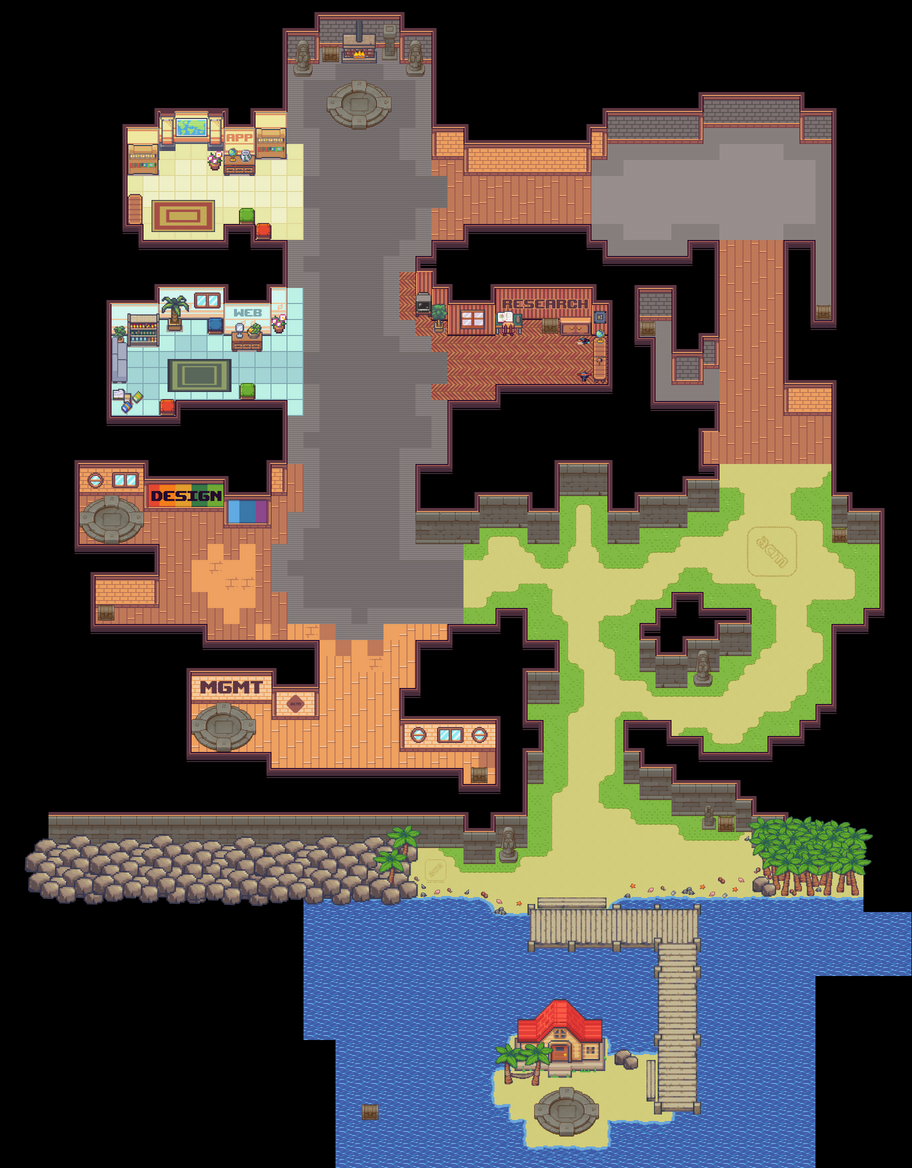
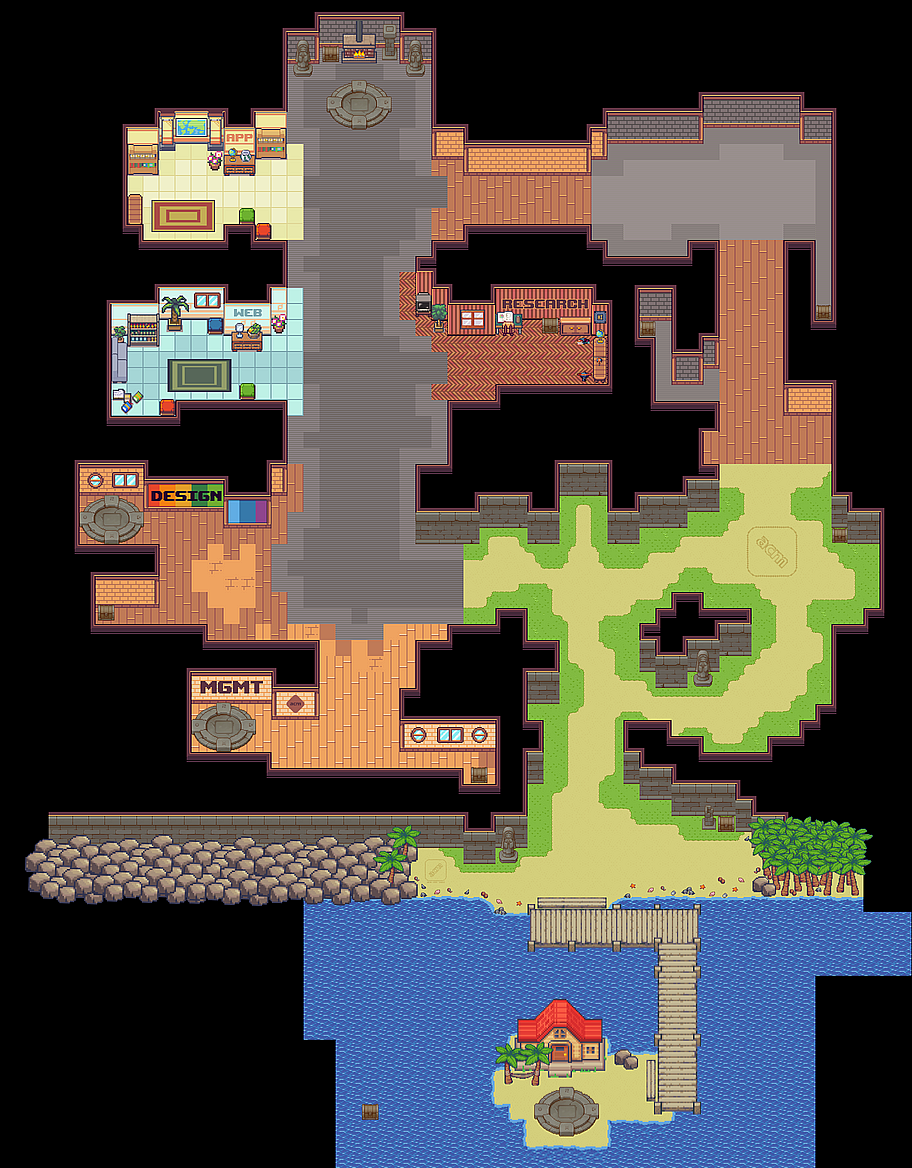
increased map's sharpness

diff --git a/js/OverworldMap.js b/js/OverworldMap.js
@@ -109,14 +109,13 @@ class OverworldMap {
 window.OverworldMaps = {
     DemoRoom: {
         // lowerSrc: "./images/HarshGeniusMap1.png",
-        // lowerSrc: "./images/ourMap96.png",
-        lowerSrc: "./images/DemoLower.png",
+        lowerSrc: "./images/ourMap16.png",
+        // lowerSrc: "./images/DemoLower.png",
         upperSrc: "./images/DemoUpper.png",
         gameObjects: {
-
             hero: new Person({
                 isPlayerControlled: true,
-                // src: "./images/hero64.png",
+                // src: "./images/hero16.png",
                 x: utils.withGrid(5),
                 y: utils.withGrid(6)
             }),
